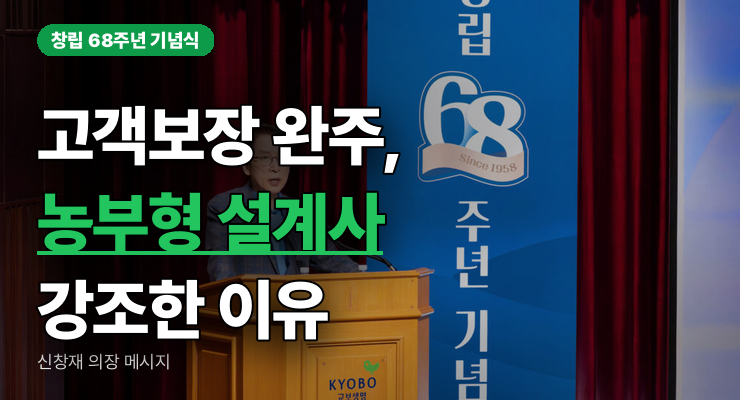
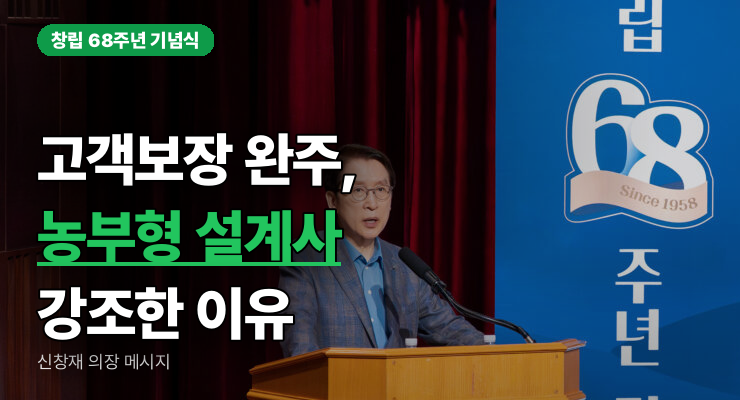
Add --bg-zoom/--bg-focus-x for horizontal repositioning, tighten badge/byline gaps
A photo narrower than the target aspect ratio fills the canvas width
exactly with zero slack, so there was previously no way to shift its
subject horizontally (the Kyobo podium photo needed the chairman's
face pulled clear of the title text). cover_crop now scales beyond
the cover-minimum by --bg-zoom, creating slack that --bg-focus-x
positions within, generalizing the same idea --bg-focus-y already did
vertically. Also switches the badge/byline gaps from a flat height
fraction to a proportion of their own font size, so spacing reads as
intentional relative to the title rather than arbitrary.

diff --git a/thumbnail-generator/thumbnail_generator.py b/thumbnail-generator/thumbnail_generator.py
@@ -89,29 +89,32 @@ def hex_to_rgb(hex_color: str) -> tuple[int, int, int]:
 # ---------------------------------------------------------------------------
 
 def cover_crop(
-    img: Image.Image, target_w: int, target_h: int, focus_y: float = 0.5
+    img: Image.Image,
+    target_w: int,
+    target_h: int,
+    focus_x: float = 0.5,
+    focus_y: float = 0.5,
+    zoom: float = 1.0,
 ) -> Image.Image:
     """Resize+crop so img fills target_w x target_h exactly, no distortion.
-    `focus_y` picks which part of the source survives a vertical crop: 0.0
-    keeps the top (crops away the bottom), which pushes source content DOWN
-    toward the frame's bottom edge; 1.0 keeps the bottom (crops away the
-    top), pushing source content UP toward the top edge; 0.5 is centered.
-    Only affects images taller than the target aspect ratio — width is
-    always centered."""
+    The image is scaled to the minimum size that covers the target box, then
+    `zoom` (>=1.0) scales it further, creating slack to reposition within.
+    `focus_x`/`focus_y` pick where the crop window sits in that slack: 0.0
+    keeps that axis' start edge (crops away the far edge), which pushes
+    source content toward the frame's far edge; 1.0 keeps the far edge
+    (crops away the start), pushing content toward the start edge; 0.5 is
+    centered. At zoom=1.0 the axis matching the target's aspect ratio has no
+    slack at all — only the other axis (and cropped-away edges) still moves.
+    Note the source's own composition sets the ceiling: focus/zoom can only
+    recenter within what the photo already contains, not create a framing
+    that was never captured."""
     img = img.convert("RGB")
     src_w, src_h = img.size
-    src_ratio = src_w / src_h
-    dst_ratio = target_w / target_h
-
-    if src_ratio > dst_ratio:
-        new_h = target_h
-        new_w = round(new_h * src_ratio)
-    else:
-        new_w = target_w
-        new_h = round(new_w / src_ratio)
+    scale = max(target_w / src_w, target_h / src_h) * zoom
+    new_w, new_h = round(src_w * scale), round(src_h * scale)
 
     img = img.resize((new_w, new_h), Image.LANCZOS)
-    left = (new_w - target_w) // 2
+    left = round((new_w - target_w) * focus_x)
     top = round((new_h - target_h) * focus_y)
     return img.crop((left, top, left + target_w, top + target_h))
 
@@ -171,10 +174,14 @@ def build_background(
     top_gradient_alpha: int,
     bottom_gradient_alpha: int,
     highlight_protect: float = 0.0,
+    bg_focus_x: float = 0.5,
     bg_focus_y: float = 0.5,
+    bg_zoom: float = 1.0,
 ) -> Image.Image:
     original = Image.open(bg_path)
-    original = cover_crop(original, width, height, focus_y=bg_focus_y)
+    original = cover_crop(
+        original, width, height, focus_x=bg_focus_x, focus_y=bg_focus_y, zoom=bg_zoom
+    )
     bg = ImageEnhance.Brightness(original).enhance(darken)
     bg = ImageEnhance.Color(bg).enhance(0.92)
     bg = bg.convert("RGBA")
@@ -528,7 +535,9 @@ def generate_thumbnail(
     top_gradient_alpha: int = 130,
     bottom_gradient_alpha: int = 165,
     protect_highlights: float = 0.0,
+    bg_focus_x: float = 0.5,
     bg_focus_y: float = 0.5,
+    bg_zoom: float = 1.0,
     margin: int | None = None,
     subtitle_size: int | None = None,
     title_max_size: int | None = None,
@@ -552,7 +561,9 @@ def generate_thumbnail(
         top_gradient_alpha,
         bottom_gradient_alpha,
         highlight_protect=protect_highlights,
+        bg_focus_x=bg_focus_x,
         bg_focus_y=bg_focus_y,
+        bg_zoom=bg_zoom,
     )
 
     top_y = round(height * 0.06)
@@ -565,7 +576,7 @@ def generate_thumbnail(
             (margin, top_y),
             bg_color=hex_to_rgb(badge_color or brand_color),
         )
-        top_y += round(height * 0.03)
+        top_y += round(byline_size * 0.5)
 
     if subtitle:
         lines = subtitle.split("\n")
@@ -597,7 +608,7 @@ def generate_thumbnail(
             shadow_alpha=180,
             anchor="ls",
         )
-        title_bottom_px += byline_ascent + byline_descent + round(height * 0.03)
+        title_bottom_px += byline_ascent + byline_descent + round(byline_size * 0.6)
 
     if title_stroke_width is None:
         title_stroke_width = max(2, round(title_max_size * 0.025))
@@ -731,6 +742,25 @@ def parse_args(argv: list[str] | None = None) -> argparse.Namespace:
         "toward the frame's top edge (e.g. 1.0 to lift a subject away from bottom "
         "title text); 0 keeps the top and pushes content down; 0.5 is centered.",
     )
+    parser.add_argument(
+        "--bg-focus-x",
+        type=float,
+        default=0.5,
+        help="0-1: which part of the background photo survives the horizontal crop. "
+        "0 pushes content toward the right edge, 1 toward the left edge, 0.5 is "
+        "centered. Has no effect at --bg-zoom 1.0 if the photo is narrower than the "
+        "canvas ratio (it already fills the width with nothing to crop horizontally) "
+        "— raise --bg-zoom to unlock horizontal repositioning in that case.",
+    )
+    parser.add_argument(
+        "--bg-zoom",
+        type=float,
+        default=1.0,
+        help="Scales the background photo beyond the minimum needed to cover the "
+        "canvas (>=1.0), creating slack for --bg-focus-x/--bg-focus-y to reposition "
+        "within — e.g. 1.3 to shift a subject that a narrower photo has no room to "
+        "move otherwise.",
+    )
     parser.add_argument("--margin", type=int, default=None)
     parser.add_argument("--subtitle-size", type=int, default=None)
     parser.add_argument("--title-max-size", type=int, default=None)
@@ -767,7 +797,9 @@ def main(argv: list[str] | None = None) -> int:
             top_gradient_alpha=args.top_gradient_alpha,
             bottom_gradient_alpha=args.bottom_gradient_alpha,
             protect_highlights=args.protect_highlights,
+            bg_focus_x=args.bg_focus_x,
             bg_focus_y=args.bg_focus_y,
+            bg_zoom=args.bg_zoom,
             margin=args.margin,
             subtitle_size=args.subtitle_size,
             title_max_size=args.title_max_size,
